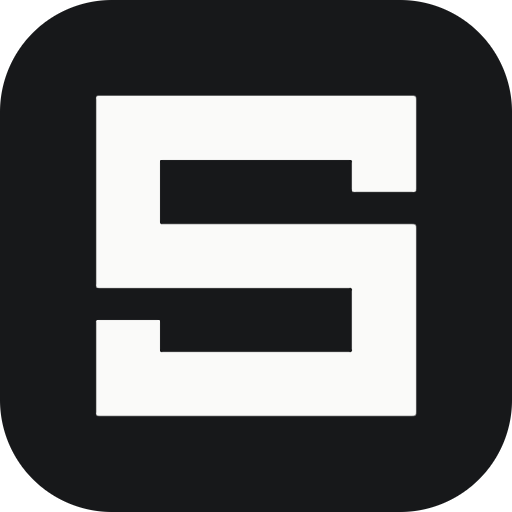
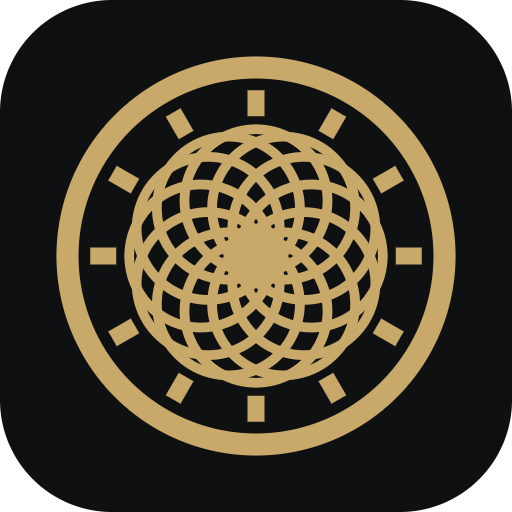
Brand emblem: engine-turned watch dial in gold replaces the S mark
- brand-dial.ts: pure dial geometry (bezel, 60-tick minute track, 30-circle rose-engine rosette, boss) with a simplified cut for 24px and below; tested
- BrandMark renders the dial; --brand-gold token (#a8874a light, #c8a96a dark) used only by the emblem
- Larger emblem on the landing hero, sign-in panel and loader; favicon and app icons are a champagne dial on near-black
- Fix: loader emblem colour; Planned page card no longer collides with the Settings .planned tag

diff --git a/assistant/src/web/app/brand-dial.ts b/assistant/src/web/app/brand-dial.ts
@@ -1,0 +1,109 @@
+/**
+ * Settle's emblem: an engine-turned (guilloché) watch dial. Static. DIAL_SMALL
+ * is the simplified cut for 24px and below.
+ */
+export interface DialSpec {
+  bezelR: number;
+  bezelWidth: number;
+  ticks: number;
+  tickIn: number;
+  tickOut: number;
+  tickWidth: number;
+  majorEvery: number;
+  majorIn: number;
+  majorWidth: number;
+  roseCount: number;
+  roseR: number;
+  roseOffset: number;
+  roseWidth: number;
+  bossR: number;
+  bossRingR: number;
+  bossRingWidth: number;
+}
+
+export interface DialTick {
+  x1: number;
+  y1: number;
+  x2: number;
+  y2: number;
+}
+
+export interface DialParts {
+  minorTicks: DialTick[];
+  majorTicks: DialTick[];
+  rosette: { cx: number; cy: number }[];
+  bossRing: { r: number; width: number } | null;
+}
+
+export const DIAL_LARGE: DialSpec = {
+  bezelR: 29.4,
+  bezelWidth: 2,
+  ticks: 60,
+  tickIn: 23.6,
+  tickOut: 26.4,
+  tickWidth: 0.9,
+  majorEvery: 5,
+  majorIn: 22.6,
+  majorWidth: 1.5,
+  roseCount: 30,
+  roseR: 12,
+  roseOffset: 9,
+  roseWidth: 0.55,
+  bossR: 2.2,
+  bossRingR: 3.4,
+  bossRingWidth: 0.9,
+};
+
+export const DIAL_SMALL: DialSpec = {
+  bezelR: 29,
+  bezelWidth: 3.4,
+  ticks: 12,
+  tickIn: 21.5,
+  tickOut: 25.5,
+  tickWidth: 2.6,
+  majorEvery: 0,
+  majorIn: 0,
+  majorWidth: 0,
+  roseCount: 12,
+  roseR: 11,
+  roseOffset: 8.5,
+  roseWidth: 1.5,
+  bossR: 3.4,
+  bossRingR: 0,
+  bossRingWidth: 0,
+};
+
+const CENTRE = 32;
+
+/** Point at radius `r` on the dial face, angle measured clockwise from 12 o'clock. */
+function point(r: number, angle: number): { x: number; y: number } {
+  return { x: CENTRE + r * Math.sin(angle), y: CENTRE - r * Math.cos(angle) };
+}
+
+export function dialParts(spec: DialSpec): DialParts {
+  const minorTicks: DialTick[] = [];
+  const majorTicks: DialTick[] = [];
+
+  for (let i = 0; i < spec.ticks; i += 1) {
+    const angle = (2 * Math.PI * i) / spec.ticks;
+    const major = spec.majorEvery > 0 && i % spec.majorEvery === 0;
+    const from = point(major ? spec.majorIn : spec.tickIn, angle);
+    const to = point(spec.tickOut, angle);
+    const tick = { x1: from.x, y1: from.y, x2: to.x, y2: to.y };
+    (major ? majorTicks : minorTicks).push(tick);
+  }
+
+  const rosette: { cx: number; cy: number }[] = [];
+  for (let i = 0; i < spec.roseCount; i += 1) {
+    const angle = (2 * Math.PI * i) / spec.roseCount;
+    const c = point(spec.roseOffset, angle);
+    rosette.push({ cx: c.x, cy: c.y });
+  }
+
+  return {
+    minorTicks,
+    majorTicks,
+    rosette,
+    bossRing: spec.bossRingR > 0 ? { r: spec.bossRingR, width: spec.bossRingWidth } : null,
+  };
+}

diff --git a/assistant/src/web/app/BrandMark.tsx b/assistant/src/web/app/BrandMark.tsx
@@ -1,27 +1,54 @@
+import { DIAL_LARGE, DIAL_SMALL, dialParts } from './brand-dial.js';
+
+const round = (n: number) => n.toFixed(2);
+
+const ticksPath = (ticks: { x1: number; y1: number; x2: number; y2: number }[]) =>
+  ticks.map((t) => `M ${round(t.x1)} ${round(t.y1)} L ${round(t.x2)} ${round(t.y2)}`).join(' ');
+
+/** Parts plus their tick paths, computed once per variant. */
+function drawing(spec: typeof DIAL_LARGE) {
+  const parts = dialParts(spec);
+  return {
+    ...parts,
+    minorPath: ticksPath(parts.minorTicks),
+    majorPath: ticksPath(parts.majorTicks),
+  };
+}
+
+const LARGE = drawing(DIAL_LARGE);
+const SMALL = drawing(DIAL_SMALL);
+
 /**
- * Settle's mark: a blocky S of three horizontal ledger rules joined by short
- * verticals, with hooks at both ends so it does not read as a 5. Static; no
- * props beyond size/title/className.
+ * Settle's emblem: an engine-turned (guilloché) watch dial. Static. Geometry
+ * lives in brand-dial.ts (pure, tested).
  */
 export function BrandMark({ size = 24, title, className }: { size?: number; title?: string; className?: string }) {
+  const small = size <= 24;
+  const spec = small ? DIAL_SMALL : DIAL_LARGE;
+  const d = small ? SMALL : LARGE;
+
   return (
     <svg
-      viewBox="0 0 24 24"
+      viewBox="0 0 64 64"
       width={size}
       height={size}
+      fill="none"
+      stroke="currentColor"
       className={['brand-mark', className].filter(Boolean).join(' ')}
       role={title ? 'img' : undefined}
       aria-hidden={title ? undefined : true}
       aria-label={title}
     >
-      <path
-        d="M20 8V5H4v7h16v7H4v-3"
-        fill="none"
-        stroke="currentColor"
-        strokeWidth="3"
-        strokeLinecap="butt"
-        strokeLinejoin="miter"
-      />
+      <circle cx="32" cy="32" r={spec.bezelR} strokeWidth={spec.bezelWidth} />
+      <path d={d.minorPath} strokeWidth={spec.tickWidth} />
+      {d.majorPath && <path d={d.majorPath} strokeWidth={spec.majorWidth} />}
+      <g strokeWidth={spec.roseWidth}>
+        {d.rosette.map((c, i) => (
+          <circle key={i} cx={c.cx} cy={c.cy} r={spec.roseR} />
+        ))}
+      </g>
+      {d.bossRing && <circle cx="32" cy="32" r={d.bossRing.r} strokeWidth={d.bossRing.width} />}
+      <circle cx="32" cy="32" r={spec.bossR} fill="currentColor" stroke="none" />
     </svg>
   );
 }

diff --git a/assistant/test/brand-dial.test.ts b/assistant/test/brand-dial.test.ts
@@ -1,0 +1,48 @@
+import { describe, expect, it } from 'vitest';
+import { DIAL_LARGE, DIAL_SMALL, dialParts } from '../src/web/app/brand-dial.js';
+
+describe('dialParts', () => {
+  it('builds the large dial: 60 ticks with every fifth one major, 30 rosette circles', () => {
+    const p = dialParts(DIAL_LARGE);
+    expect(p.minorTicks.length + p.majorTicks.length).toBe(60);
+    expect(p.majorTicks.length).toBe(12);
+    expect(p.rosette).toHaveLength(30);
+    expect(p.bossRing).not.toBeNull();
+  });
+
+  it('builds the small dial: 12 ticks, no major set, 12 heavier rosette circles, no boss ring', () => {
+    const p = dialParts(DIAL_SMALL);
+    expect(p.minorTicks).toHaveLength(12);
+    expect(p.majorTicks).toHaveLength(0);
+    expect(p.rosette).toHaveLength(12);
+    expect(p.bossRing).toBeNull();
+    expect(DIAL_SMALL.roseWidth).toBeGreaterThan(DIAL_LARGE.roseWidth);
+  });
+
+  it('keeps every element inside the 64x64 viewBox and centred on (32, 32)', () => {
+    for (const spec of [DIAL_LARGE, DIAL_SMALL]) {
+      const p = dialParts(spec);
+      expect(spec.bezelR + spec.bezelWidth / 2).toBeLessThanOrEqual(32);
+      for (const c of p.rosette) {
+        expect(Math.hypot(c.cx - 32, c.cy - 32)).toBeCloseTo(spec.roseOffset, 5);
+        expect(Math.hypot(c.cx - 32, c.cy - 32) + spec.roseR).toBeLessThan(spec.bezelR);
+      }
+      for (const t of [...p.minorTicks, ...p.majorTicks]) {
+        for (const [x, y] of [[t.x1, t.y1], [t.x2, t.y2]]) {
+          expect(x).toBeGreaterThanOrEqual(0);
+          expect(x).toBeLessThanOrEqual(64);
+          expect(y).toBeGreaterThanOrEqual(0);
+          expect(y).toBeLessThanOrEqual(64);
+        }
+      }
+    }
+  });
+
+  it('starts the first tick at 12 o\'clock and is deterministic', () => {
+    const p = dialParts(DIAL_LARGE);
+    const first = p.majorTicks[0]!;
+    expect(first.x1).toBeCloseTo(32, 5);
+    expect(first.y1).toBeLessThan(32);
+    expect(dialParts(DIAL_LARGE)).toEqual(p);
+  });
+});

diff --git a/assistant/src/web/app/styles/tokens.css b/assistant/src/web/app/styles/tokens.css
@@ -23,6 +23,8 @@
   --neg-soft: #fbecea;
   --warn: #a15c07;
   --warn-soft: #fbf1e0;
+  /* Brand colour, used only by the wax-seal emblem. */
+  --brand-gold: #a8874a;
   --shadow: 0 1px 2px rgb(0 0 0 / 4%), 0 1px 1px rgb(0 0 0 / 3%);
   --shadow-lg: 0 12px 32px -12px rgb(0 0 0 / 18%), 0 2px 6px rgb(0 0 0 / 6%);
   color-scheme: light;
@@ -86,6 +88,7 @@
     --neg-soft: #2c1715;
     --warn: #f0b84a;
     --warn-soft: #2a2110;
+    --brand-gold: #c8a96a;
     --shadow: 0 0 0 1px var(--line);
     --shadow-lg: 0 16px 40px -16px rgb(0 0 0 / 70%), 0 0 0 1px var(--line);
     color-scheme: dark;
@@ -113,6 +116,7 @@
   --neg-soft: #2c1715;
   --warn: #f0b84a;
   --warn-soft: #2a2110;
+  --brand-gold: #c8a96a;
   --shadow: 0 0 0 1px var(--line);
   --shadow-lg: 0 16px 40px -16px rgb(0 0 0 / 70%), 0 0 0 1px var(--line);
   color-scheme: dark;

diff --git a/assistant/src/web/app/SignIn.tsx b/assistant/src/web/app/SignIn.tsx
@@ -112,7 +112,7 @@ export function SignIn({
     <div className="signin">
       <div className="signin-top">
         <a className="signin-home" href="/">
-          <BrandMark size={20} />
+          <BrandMark size={24} />
           <span>Settle</span>
         </a>
       </div>
@@ -263,6 +263,7 @@ export function SignIn({
         </div>
 
         <aside className="signin-aside" aria-labelledby="signin-aside-title">
+          <BrandMark size={40} className="signin-aside-mark" />
           <p className="signin-aside-label" id="signin-aside-title">How your data is handled</p>
           <ul className="signin-aside-list">
             <li>Passwords are stored only as salted scrypt hashes.</li>

diff --git a/assistant/src/web/app/Preloader.tsx b/assistant/src/web/app/Preloader.tsx
@@ -1,4 +1,5 @@
 import { useEffect, useState } from 'react';
+import { BrandMark } from './BrandMark.js';
 import { useBootProgress } from './boot-progress.js';
 import { LoadingSteps } from './LoadingSteps.js';
 
@@ -24,7 +25,10 @@ export function AppPreloader({ visible }: { visible: boolean }) {
   return (
     <div className={`app-preloader${exiting ? ' is-out' : ''}`}>
       <div className="app-preloader-inner">
-        <p className="app-preloader-copy">Settle</p>
+        <div className="app-preloader-brand">
+          <BrandMark size={32} />
+          <p className="app-preloader-copy">Settle</p>
+        </div>
         <LoadingSteps state={state} now={now} />
       </div>
     </div>

diff --git a/assistant/src/web/app/styles/shell.css b/assistant/src/web/app/styles/shell.css
@@ -82,7 +82,6 @@
 }
 
 .app .shell-brand .brand-mark {
-  color: var(--ink);
   flex: none;
 }
 
@@ -680,21 +679,21 @@
 
 /* ---------- Planned view ---------- */
 
-.app .planned {
+.app .planned-view {
   display: flex;
   flex-direction: column;
   align-items: flex-start;
   gap: var(--s3);
-  max-width: 60ch;
+  max-width: 560px;
+  margin: 0;
   padding-top: var(--s6);
 }
 
 .app .planned-mark {
   display: block;
-  color: var(--muted);
 }
 
-.app .planned h1 {
+.app .planned-view h1 {
   margin: 0;
   color: var(--ink);
   font-size: var(--t-xl);

diff --git a/assistant/src/web/app/styles/components.css b/assistant/src/web/app/styles/components.css
@@ -103,10 +103,11 @@ body:has(.app), body:has(.app-preloader) {
   letter-spacing: -0.01em;
 }
 
-.app .brand-mark {
+.app .brand-mark,
+.app-preloader .brand-mark {
   display: block;
   flex: none;
-  color: var(--ink);
+  color: var(--brand-gold);
 }
 
 /* ---------- Layout helpers ---------- */
@@ -954,6 +955,12 @@ html.settle-smooth-scroll {
   font-size: var(--t-md);
   font-weight: 600;
   letter-spacing: -0.01em;
+}
+
+.app-preloader-brand {
+  display: grid;
+  justify-items: center;
+  gap: var(--s2);
 }
 
 .app-preloader :focus-visible {

diff --git a/assistant/src/web/app/styles/landing.css b/assistant/src/web/app/styles/landing.css
@@ -92,6 +92,8 @@
 }
 .app .lp-label { grid-column: span 3; display: grid; gap: var(--s2); align-content: start; }
 .app .lp-content { grid-column: span 9; display: grid; gap: var(--s6); align-content: start; min-width: 0; }
+/* Landing emblem: the grid gap is --s6, so pull it back to --s5 below the seal. */
+.app .lp-emblem { margin-bottom: calc(var(--s5) - var(--s6)); }
 .app .lp-num { font-size: var(--t-sm); font-variant-numeric: tabular-nums; color: var(--accent); }
 .app .lp-label-text {
   margin: 0;

diff --git a/assistant/src/web/app/Welcome.tsx b/assistant/src/web/app/Welcome.tsx
@@ -192,6 +192,7 @@ export function Welcome({
           <p className="lp-label-text">Overview</p>
         </div>
         <div className="lp-content">
+          <BrandMark size={72} className="lp-emblem" />
           <h1 className="lp-h1" id="lp-title">Transaction intelligence you run yourself.</h1>
           <p className="lp-lede">
             Settle is a spending ledger being rebuilt into transaction intelligence you can run

diff --git a/assistant/src/web/app/PlannedView.tsx b/assistant/src/web/app/PlannedView.tsx
@@ -40,7 +40,7 @@ const PLANNED: Record<PlannedSection, { milestone: string; copy: string }> = {
 export function PlannedView({ section }: { section: PlannedSection }) {
   const entry = PLANNED[section];
   return (
-    <div className="planned">
+    <div className="planned-view">
       <span className="planned-mark">
         <BrandMark size={32} />
       </span>

diff --git a/assistant/src/web/app/styles/signin.css b/assistant/src/web/app/styles/signin.css
@@ -223,6 +223,11 @@
   background: var(--surface-2);
 }
 
+.signin .signin-aside-mark {
+  display: block;
+  margin-bottom: var(--s4);
+}
+
 .signin .signin-aside-label {
   margin: 0 0 var(--s3);
   color: var(--muted);
